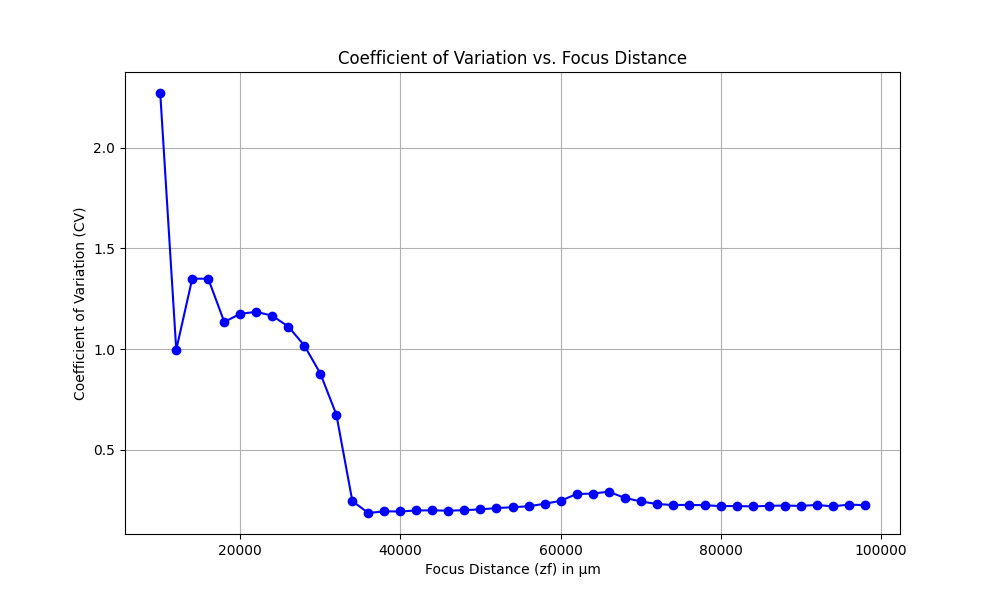
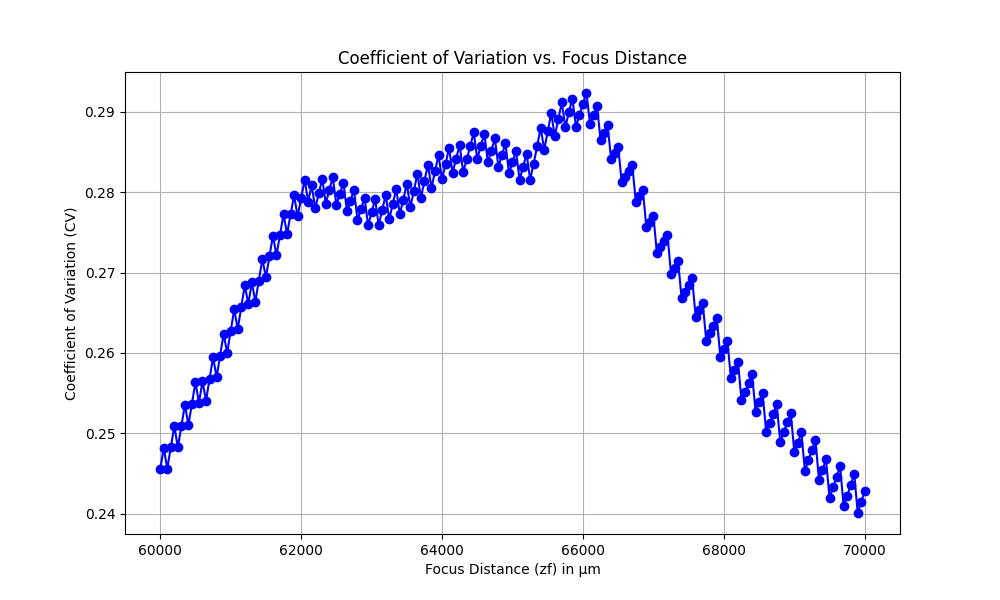
changes

diff --git a/Speedy_DIH_library/speedyDIH.py b/Speedy_DIH_library/speedyDIH.py
@@ -7,8 +7,6 @@ import matplotlib.pyplot as plt
 import time
 import cupy as cp
 
-
-
 # --- Function Definitions ---
 
 # Fresnel function
@@ -52,11 +50,11 @@ def calculate_cv(image_gpu):
     return (std_pixels / mean_pixels).get() # .get() to move result to CPU
 
 # --- Main Program ---
-def display_Tamura_graph(refImage_filepath , rawImage_filepath, zf_values):
+def display_Tamura_graph(refImage_filepath , rawImage_filepath, zf_values, lam=0.532, pix=3.45):
     start_time = time.time()
     # --- Parameters ---
-    lam = 0.532  # measured in micrometers (wavelength)
-    pix = 3.45   # measured in micrometers (pixel size)
+    #lam = 0.532  # measured in micrometers (wavelength)
+    #pix = 3.45   # measured in micrometers (pixel size)
     # zf = 68900   # Not used directly as zf_values is iterated
     
 
@@ -174,4 +172,64 @@ def display_Tamura_graph(refImage_filepath , rawImage_filepath, zf_values):
     plt.savefig('cv_vs_zf_plot.png')
 
     # Show the plot
+    plt.show()
+
+def display_Holograms(refImage_filepath , rawImage_filepath, zf_values, lam=0.532, pix=3.45):
+
+    start_time = time.time()
+
+    try:
+        ref_image_raw = cv2.imread("/home/berg/Documents/git/speedy-DIH/test_files/dust_hologram_blank.tiff", cv2.IMREAD_GRAYSCALE)
+        raw_image_raw = cv2.imread("/home/berg/Documents/git/speedy-DIH/test_files/sphere2_hologram.tiff", cv2.IMREAD_GRAYSCALE)
+
+        if ref_image_raw is None or raw_image_raw is None:
+            raise FileNotFoundError("Make sure 'dust_hologram_blank.tiff' and 'dust_hologram.tiff' exist in the specified path.")
+
+        # Convert images to complex floating point for calculations
+        # Transfer NumPy arrays to CuPy arrays on the GPU
+        ref_image = cp.asarray(ref_image_raw.astype(cp.complex128))
+        raw_image = cp.asarray(raw_image_raw.astype(cp.complex128))
+
+    except Exception as e:
+        print(f"Error loading images: {e}")
+        print("Please ensure image files are present and valid TIFF files at the specified path.")
+        exit()
+
+    size_y, size_x = ref_image.shape # Corrected: cupy shape is (rows, cols)
+
+    # 2. Perform calculations (corresponds to 'con' in Mathematica)
+    # All these operations now happen on the GPU with CuPy arrays
+    con = raw_image / (ref_image**2)
+
+    # --- Physical Scaling Calculation ---
+    input_fov_x = size_x * pix
+    input_fov_y = size_y * pix
+    print(f"Input Field of View: {input_fov_x:.2f} µm x {input_fov_y:.2f} µm")
+    print(f"Original Pixel Size: {pix} µm")
+
+    # --- Reconstruction Loop (demonstrating the effect) ---
+    print("\n--- Performing Reconstruction with Varying zf ---")
+
+
+    fig, axes = plt.subplots(1, len(zf_values), figsize=(4 * len(zf_values), 6))
+    if len(zf_values) == 1: # Handle case of single subplot
+        axes = [axes]
+
+    for i, current_zf in enumerate(zf_values):
+        print(f"Reconstructing for zf = {current_zf} µm...")
+        # Call the angular spectrum fresnel
+        reconstructed_field = fresnel(current_zf, lam, con, pix)
+        reconstructed_intensity = cp.abs(reconstructed_field)**2
+        
+        # To display with matplotlib, you need to bring the CuPy array back to the CPU
+        ax = axes[i]
+        ax.imshow(cp.asnumpy(reconstructed_intensity), cmap='gray')
+        ax.set_title(f'zf = {current_zf} µm')
+        ax.axis('off')
+
+    comp_end_time = time.time()
+    print(f"GPU Total computation time: {comp_end_time - start_time:.2f} seconds.")
+
+    plt.suptitle("Reconstructed Images at Different zf values - Convolution method")
+    plt.tight_layout(rect=[0, 0.03, 1, 0.95]) # Adjust layout to prevent title overlap
     plt.show()

diff --git a/Speedy_DIH_library/test.py b/Speedy_DIH_library/test.py
@@ -1,8 +1,12 @@
 import speedyDIH
+import HelperFunctions
 
-zf_values = list(range(10000, 100000, 2000))  # Continue the list in steps of 2000 up to 200000
 
+zf_values = list(range(60000, 70001, 50))    # Continue the list in steps of 2000 up to 200000
+zf_hologram_values = HelperFunctions.generate_intervals(65830, 500, 5)  # Generate intervals around 65000 with a step of 2000 
 refImagePath = "/home/berg/Documents/git/speedy-DIH/test_files/dust_hologram_blank.tiff"
 rawImagePath = "/home/berg/Documents/git/speedy-DIH/test_files/sphere2_hologram.tiff"
 
-speedyDIH.display_Tamura_graph(refImagePath, rawImagePath, zf_values)
+#speedyDIH.display_Tamura_graph(refImagePath, rawImagePath, zf_values)
+speedyDIH.display_Holograms(refImagePath, rawImagePath, zf_hologram_values)
+

diff --git a/Speedy_DIH_library/HelperFunctions.py b/Speedy_DIH_library/HelperFunctions.py
@@ -1,0 +1,4 @@
+def generate_intervals(base_value, step, steps):
+    less_than = [base_value - step * i for i in range(1, steps + 1) if base_value - step * i > 0]
+    more_than = [base_value + step * i for i in range(1, steps + 1)]
+    return less_than[::-1] + [base_value] + more_than
